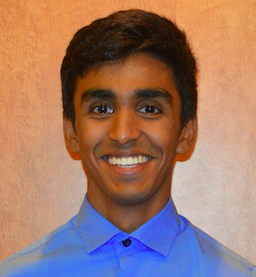
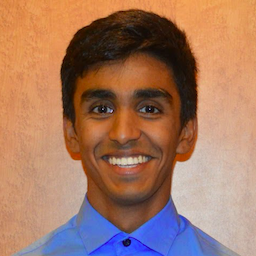
fixed profile picture size, changed navbar active page colors

diff --git a/contact.html b/contact.html
@@ -17,7 +17,7 @@
 				<!--left half of menu bar-->
 				<li class="navitem_title"><h1>Nisarg Joshi</h1></li>
 				<!--right half of menu bar-->
-				<li class="navitem_right" style="background-color: #FFFBBD"><a href="contact.html" id="contact" style="color:#7FB069">Contact</a></li>
+				<li class="navitem_right" style="background-color: #E6AA68"><a href="contact.html" id="contact">Contact</a></li>
 				<li class="navitem_right"><a href="portfolio.html"  id="portfolio">Portfolio</a></li>
 				<li class="navitem_right"><a href="index.html">About</a></li>
 			</ul>

diff --git a/portfolio.html b/portfolio.html
@@ -18,7 +18,7 @@
 				<li class="navitem_title"><h1>Nisarg Joshi</h1></li>
 				<!--right half of menu bar-->
 				<li class="navitem_right"><a href="contact.html" id="contact">Contact</a></li>
-				<li class="navitem_right" style="background-color: #FFFBBD"><a href="portfolio.html"  id="portfolio" style="color:#7FB069">Portfolio</a></li>
+				<li class="navitem_right" style="background-color: #E6AA68"><a href="portfolio.html"  id="portfolio">Portfolio</a></li>
 				<li class="navitem_right"><a href="index.html">About</a></li>
 			</ul>
 		</div>

diff --git a/index.html b/index.html
@@ -19,7 +19,7 @@
 				<!--right half of menu bar-->
 				<li class="navitem_right"><a href="contact.html" id="contact">Contact</a></li>
 				<li class="navitem_right"><a href="portfolio.html"  id="portfolio">Portfolio</a></li>
-				<li class="navitem_right" style="background-color: #FFFBBD"><a href="index.html" style="color:#7FB069">About</a></li>
+				<li class="navitem_right" style="background-color: #E6AA68"><a href="index.html">About</a></li>
 			</ul>
 		</div>
 		<!--main content area--> 
